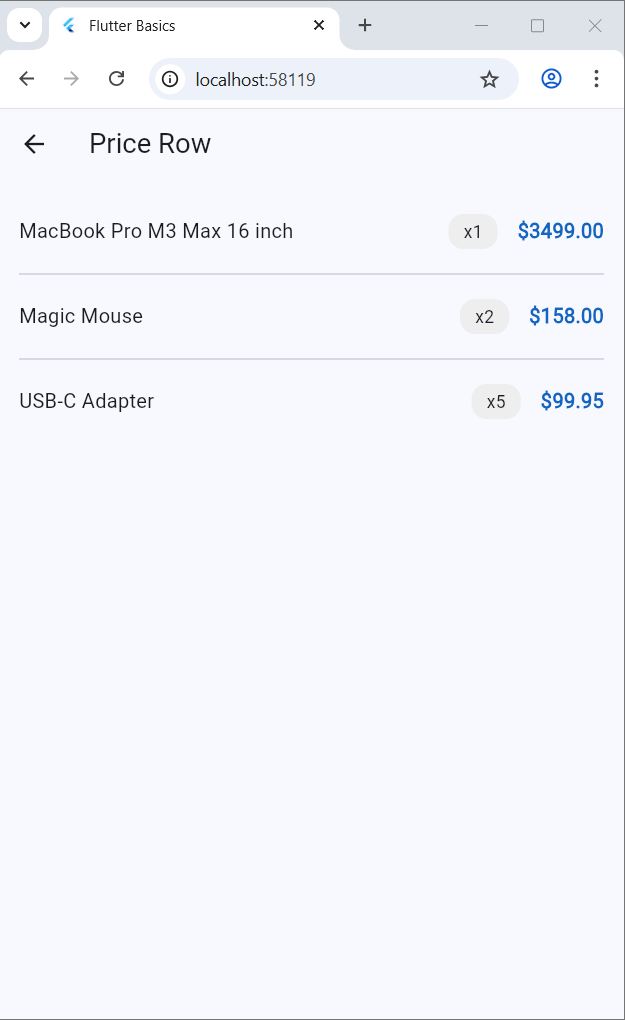
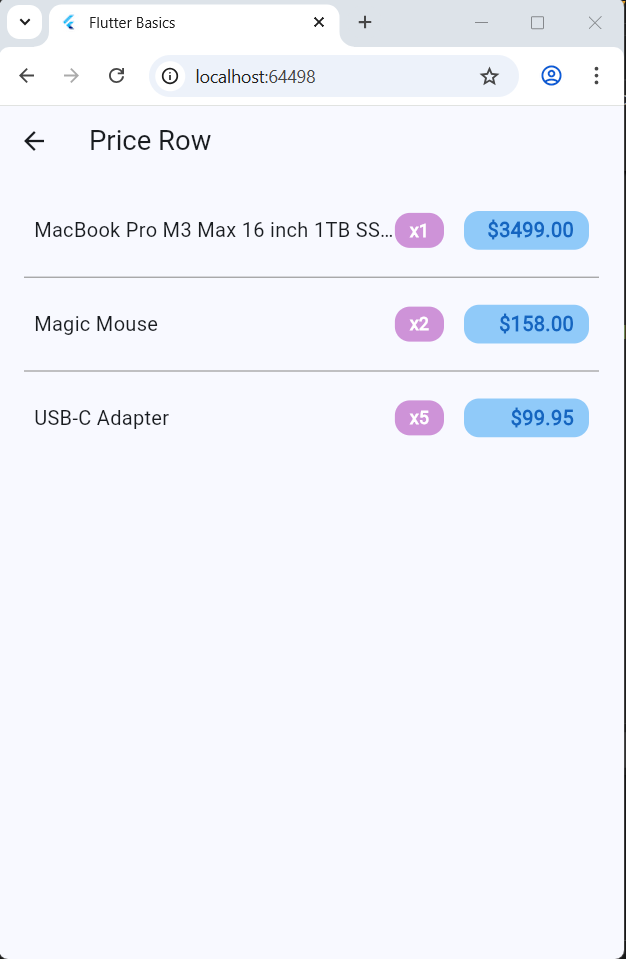
feat: add multiple basic Flutter UI exercises including profile header, price row, and counter examples.

diff --git a/02_flutter_basics/flutter_basics/lib/exercises/ex09_price_row.dart b/02_flutter_basics/flutter_basics/lib/exercises/ex09_price_row.dart
@@ -14,6 +14,7 @@ library;
 
 import 'package:flutter/material.dart';
 
+// Ex09PriceRow - Widget để tạo hàng hiển thị thông tin giỏ hàng
 class Ex09PriceRow extends StatelessWidget {
   const Ex09PriceRow({super.key});
 
@@ -25,10 +26,31 @@ class Ex09PriceRow extends StatelessWidget {
         padding: EdgeInsets.all(16),
         child: Column(
           children: [
-            _buildItem('MacBook Pro M3 Max 16 inch', 1, 3499.00),
-            Divider(), // Đường kẻ ngang phân cách
+            _buildItem(
+              'MacBook Pro M3 Max 16 inch 1TB SSD 32GB RAM',
+              1,
+              3499.00,
+            ),
+
+            // Divider: Đường kẻ ngang
+            Divider(
+              height: 20,
+              thickness: 1, // Độ dày của đường kẻ
+              color: Colors.grey, // Màu của đường kẻ
+              indent: 4, // Khoảng cách từ lề trái
+              endIndent: 4, // Khoảng cách từ lề phải
+            ),
+
             _buildItem('Magic Mouse', 2, 79.00),
-            Divider(),
+
+            Divider(
+              height: 20,
+              thickness: 1,
+              color: Colors.grey,
+              indent: 4,
+              endIndent: 4,
+            ),
+
             _buildItem('USB-C Adapter', 5, 19.99),
           ],
         ),
@@ -38,7 +60,8 @@ class Ex09PriceRow extends StatelessWidget {
 
   Widget _buildItem(String name, int qty, double price) {
     return Padding(
-      padding: EdgeInsets.symmetric(vertical: 12),
+      // Tạo khoảng cách đều 12px cho cả trên, dưới, trái, phải
+      padding: EdgeInsets.symmetric(vertical: 12, horizontal: 12),
       child: Row(
         children: [
           // [Quan trọng]
@@ -57,22 +80,38 @@ class Ex09PriceRow extends StatelessWidget {
           Container(
             padding: EdgeInsets.symmetric(horizontal: 12, vertical: 4),
             decoration: BoxDecoration(
-              color: Colors.grey[200],
+              color: Colors.purple[200],
               borderRadius: BorderRadius.circular(12),
             ),
-            child: Text('x$qty'),
+            child: Text(
+              'x$qty',
+              style: TextStyle(
+                color: Colors.white,
+                fontWeight: FontWeight.bold,
+              ),
+            ),
           ),
 
           SizedBox(width: 16),
 
           // Giá tiền (Width tự động)
-          Text(
-            // toStringAsFixed(2): Định dạng số thập phân có 2 số sau dấu phẩy (19.99)
-            '\$${(price * qty).toStringAsFixed(2)}',
-            style: TextStyle(
-              fontSize: 16,
-              fontWeight: FontWeight.bold,
-              color: Colors.blue[800],
+          Container(
+            width: 100,
+            padding: EdgeInsets.symmetric(horizontal: 12, vertical: 4),
+            // Tạo khung bo tròn
+            decoration: BoxDecoration(
+              color: Colors.blue[200],
+              borderRadius: BorderRadius.circular(12),
+            ),
+            child: Text(
+              // toStringAsFixed(2): Định dạng số thập phân có 2 số sau dấu phẩy (19.99)
+              '\$${(price * qty).toStringAsFixed(2)}',
+              style: TextStyle(
+                fontSize: 16,
+                fontWeight: FontWeight.bold,
+                color: Colors.blue[800],
+              ),
+              textAlign: TextAlign.right, // Căn phải
             ),
           ),
         ],

diff --git a/02_flutter_basics/flutter_basics/lib/exercises/ex10_profile_header.dart b/02_flutter_basics/flutter_basics/lib/exercises/ex10_profile_header.dart
@@ -13,6 +13,7 @@ library;
 
 import 'package:flutter/material.dart';
 
+// Ex10ProfileHeader - Widget để tạo header hồ sơ
 class Ex10ProfileHeader extends StatelessWidget {
   const Ex10ProfileHeader({super.key});
 
@@ -32,7 +33,7 @@ class Ex10ProfileHeader extends StatelessWidget {
               // 1. Layer dưới cùng: Cover Image
               Container(
                 height: 200,
-                width: double.infinity,
+                width: double.infinity, // Chiều rộng bằng màn hình
                 decoration: BoxDecoration(
                   image: DecorationImage(
                     image: NetworkImage('https://picsum.photos/800/400'),
@@ -50,11 +51,17 @@ class Ex10ProfileHeader extends StatelessWidget {
                   padding: EdgeInsets.all(4), // Tạo viền trắng dày 4px
                   decoration: BoxDecoration(
                     color: Colors.white, // Màu viền
-                    shape: BoxShape.circle,
+                    shape:
+                        BoxShape.circle, // Bắt widget có hình dạng là hình tròn
                   ),
                   child: CircleAvatar(
-                    radius: 50,
+                    radius: 50, // Bán kính của ảnh
                     backgroundImage: NetworkImage('https://i.pravatar.cc/300'),
+                    child: Icon(Icons.person, size: 50),
+                    // Xử lý lỗi khi load ảnh
+                    onBackgroundImageError: (exception, stackTrace) {
+                      debugPrint('Error loading image: $exception');
+                    },
                   ),
                 ),
               ),
@@ -73,6 +80,50 @@ class Ex10ProfileHeader extends StatelessWidget {
           Text(
             'UX/UI Designer',
             style: TextStyle(color: Colors.grey, fontSize: 16),
+          ),
+
+          Padding(
+            padding: const EdgeInsets.all(16.0),
+            child: Text(
+              'I am a Flutter Developer',
+              style: TextStyle(
+                // Kích thước
+                fontSize: 20,
+
+                // Font weight
+                fontWeight: FontWeight.w600, // 100-900, normal, bold
+                // Màu sắc
+                color: Colors.black87,
+                backgroundColor: Colors.blueAccent,
+
+                // Font family
+                fontFamily: 'Roboto',
+
+                // Style
+                fontStyle: FontStyle.italic,
+
+                // Decoration
+                decoration: TextDecoration.underline,
+                decorationColor: Colors.pinkAccent,
+                decorationStyle: TextDecorationStyle.wavy,
+
+                // Letter & Word spacing
+                letterSpacing: 2.0,
+                wordSpacing: 5.0,
+
+                // Line height (1.0 = normal)
+                height: 1.5,
+
+                // Shadow
+                shadows: [
+                  Shadow(
+                    color: Colors.grey,
+                    offset: Offset(2, 2),
+                    blurRadius: 4,
+                  ),
+                ],
+              ),
+            ),
           ),
         ],
       ),

diff --git a/02_flutter_basics/flutter_basics/lib/exercises/ex08_navigation_bar.dart b/02_flutter_basics/flutter_basics/lib/exercises/ex08_navigation_bar.dart
@@ -14,14 +14,17 @@ library;
 
 import 'package:flutter/material.dart';
 
+// Ex08NavigationBar - Widget để tạo thanh điều hướng tùy chỉnh
 class Ex08NavigationBar extends StatelessWidget {
   const Ex08NavigationBar({super.key});
 
   @override
   Widget build(BuildContext context) {
+    // Scaffold: Widget cơ bản của Material Design, cung cấp cấu trúc màn hình
+    // (AppBar, Body, BottomNavigationBar...)
     return Scaffold(
       appBar: AppBar(title: Text('Custom Nav Bar')),
-      body: Center(child: Text('Content')),
+      body: Center(child: Text('Content', style: TextStyle(fontSize: 24))),
 
       // bottomNavigationBar: Slot đặc biệt của Scaffold dành cho thanh điều hướng dưới cùng
       bottomNavigationBar: Container(
@@ -59,11 +62,14 @@ class Ex08NavigationBar extends StatelessWidget {
       // Căn giữa nội dung trong Column (Icon và Text)
       mainAxisAlignment: MainAxisAlignment.center,
       children: [
-        Icon(
-          icon,
+        IconButton(
+          icon: Icon(icon),
           // Active thì màu xanh, in-active màu xám
           color: isActive ? Colors.blue : Colors.grey,
-          size: 28,
+          iconSize: 28,
+          onPressed: () {
+            debugPrint('Pressed $label');
+          },
         ),
         SizedBox(height: 4),
         Text(

diff --git a/02_flutter_basics/flutter_basics/lib/exercises/ex11_grid_layout.dart b/02_flutter_basics/flutter_basics/lib/exercises/ex11_grid_layout.dart
@@ -13,6 +13,7 @@ library;
 
 import 'package:flutter/material.dart';
 
+// Ex11GridLayout - Widget để tạo dashboard grid
 class Ex11GridLayout extends StatelessWidget {
   const Ex11GridLayout({super.key});
 
@@ -39,6 +40,7 @@ class Ex11GridLayout extends StatelessWidget {
     );
   }
 
+  // _buildCard - Widget để tạo card thống kê
   Widget _buildCard(IconData icon, String value, String label, Color color) {
     return Container(
       width:
@@ -47,9 +49,16 @@ class Ex11GridLayout extends StatelessWidget {
       decoration: BoxDecoration(
         color: Colors.white,
         borderRadius: BorderRadius.circular(16),
+        boxShadow: [
+          BoxShadow( // Tạo bóng đổ
+            color: Colors.blue.withValues(alpha: 0.1),
+            blurRadius: 10, // Độ mờ của bóng
+            offset: Offset(0, 2), // Vị trí của bóng
+          ),
+        ],
       ),
       child: Column(
-        crossAxisAlignment: CrossAxisAlignment.start,
+        crossAxisAlignment: CrossAxisAlignment.start, // Căn trái
         children: [
           Container(
             padding: EdgeInsets.all(8),

diff --git a/02_flutter_basics/flutter_basics/lib/exercises/ex01_hello_flutter.dart b/02_flutter_basics/flutter_basics/lib/exercises/ex01_hello_flutter.dart
@@ -22,6 +22,8 @@ import 'package:flutter/material.dart';
 // [Giải thích concept]
 // StatelessWidget: Widget tĩnh, không thay đổi nội dung khi người dùng tương tác.
 // Dùng cho các màn hình chỉ hiển thị thông tin.
+
+// Ex01HelloFlutter - Widget để tạo màn hình chào mừng
 class Ex01HelloFlutter extends StatelessWidget {
   const Ex01HelloFlutter({super.key});
 

diff --git a/02_flutter_basics/flutter_basics/lib/exercises/ex02_counter.dart b/02_flutter_basics/flutter_basics/lib/exercises/ex02_counter.dart
@@ -17,6 +17,8 @@ import 'package:flutter/material.dart';
 // [Giải thích concept]
 // StatefulWidget: Widget có thể thay đổi trạng thái (state) khi chạy (dynamic).
 // Cần 2 class: 1 cái extends StatefulWidget, 1 cái extends State.
+
+// Ex02Counter - Widget để tạo bộ đếm
 class Ex02Counter extends StatefulWidget {
   const Ex02Counter({super.key});
 

diff --git a/02_flutter_basics/flutter_basics/lib/exercises/ex07_social_post_card.dart b/02_flutter_basics/flutter_basics/lib/exercises/ex07_social_post_card.dart
@@ -14,6 +14,7 @@ library;
 
 import 'package:flutter/material.dart';
 
+// Ex07SocialPostCard - Widget để tạo thẻ bài đăng mạng xã hội
 class Ex07SocialPostCard extends StatelessWidget {
   const Ex07SocialPostCard({super.key});
 

diff --git a/02_flutter_basics/flutter_basics/lib/exercises/ex05_profile_card.dart b/02_flutter_basics/flutter_basics/lib/exercises/ex05_profile_card.dart
@@ -14,6 +14,7 @@ library;
 
 import 'package:flutter/material.dart';
 
+// Ex05ProfileCard - Widget để tạo thẻ thông tin cá nhân
 class Ex05ProfileCard extends StatelessWidget {
   const Ex05ProfileCard({super.key});
 

diff --git a/02_flutter_basics/flutter_basics/lib/exercises/ex06_product_card.dart b/02_flutter_basics/flutter_basics/lib/exercises/ex06_product_card.dart
@@ -19,6 +19,7 @@ library;
 
 import 'package:flutter/material.dart';
 
+// Ex06ProductCard - Widget để tạo thẻ sản phẩm
 class Ex06ProductCard extends StatelessWidget {
   const Ex06ProductCard({super.key});
 

diff --git a/02_flutter_basics/flutter_basics/lib/exercises/ex03_toggle_theme.dart b/02_flutter_basics/flutter_basics/lib/exercises/ex03_toggle_theme.dart
@@ -16,6 +16,7 @@ library;
 
 import 'package:flutter/material.dart';
 
+// Ex03ToggleTheme - Widget để thay đổi theme
 class Ex03ToggleTheme extends StatefulWidget {
   const Ex03ToggleTheme({super.key});
 

diff --git a/02_flutter_basics/flutter_basics/lib/exercises/ex04_like_button.dart b/02_flutter_basics/flutter_basics/lib/exercises/ex04_like_button.dart
@@ -16,6 +16,7 @@ library;
 
 import 'package:flutter/material.dart';
 
+// Ex04LikeButton - Widget để tạo nút like
 class Ex04LikeButton extends StatefulWidget {
   const Ex04LikeButton({super.key});
 
